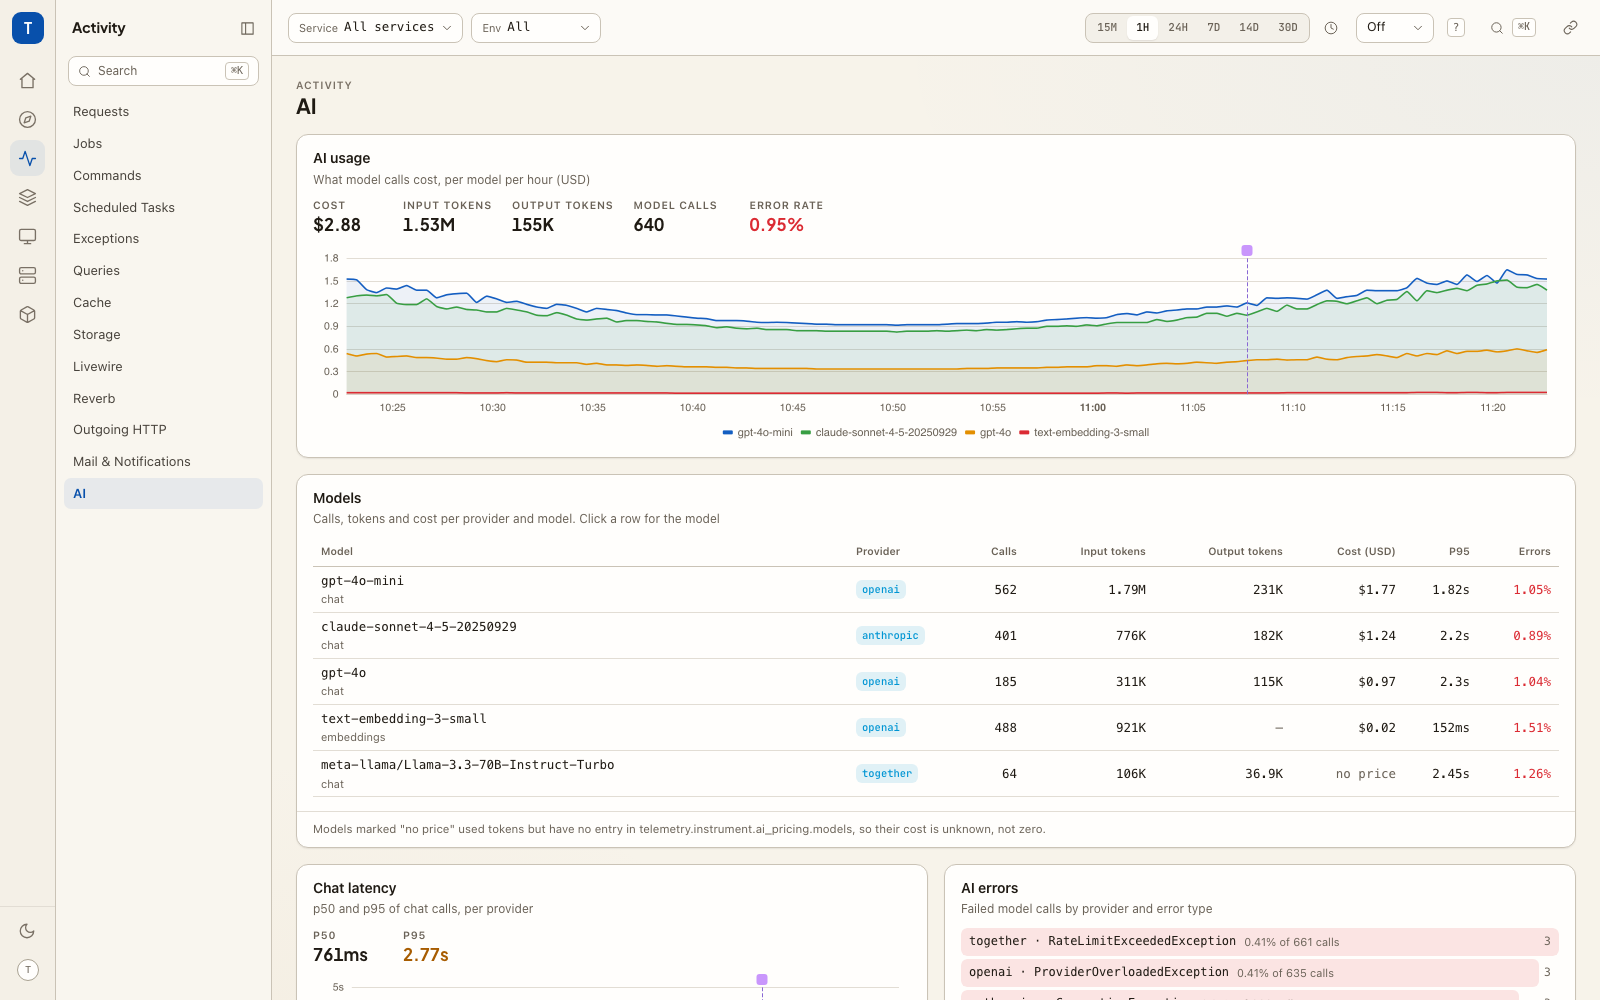
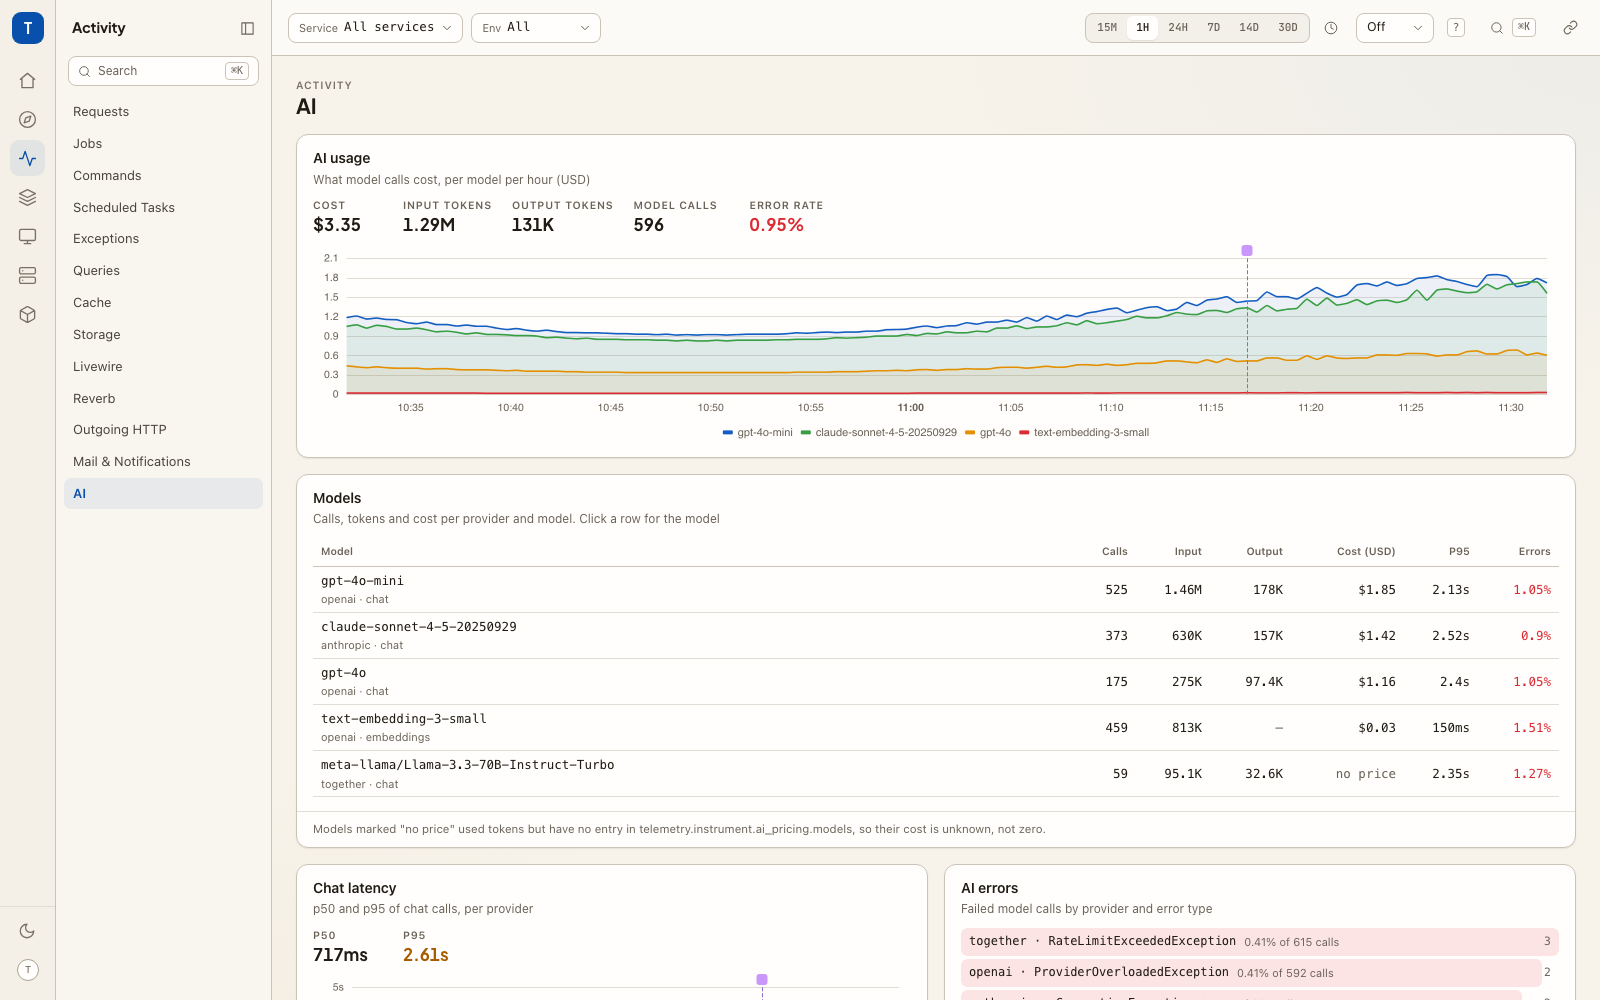
fix(ai): keep every AI table a table at 1280px
The models table, the call lists and the agent runs turned into cards at
a 1280px viewport while every other page stayed a table. Slim them the
way the rest of the UI does: provider and use under the model name,
cache and reasoning tokens under the token totals, when a run started
and the tools it called under the agent, shorter Input/Output labels.

A browser test now measures every AI table on the AI page (in each
sort), the model, agent, user, tenant and IP pages: tables at 1280px,
cards on a phone.

Claude-Session: https://claude.ai/code/session_01LtsaMBeethcCYvKx8PTBYL

diff --git a/tests/Feature/AiPageTest.php b/tests/Feature/AiPageTest.php
@@ -186,8 +186,8 @@ it('lists models with calls, tokens, cost, p95 and error rate, marking an unpric
         ->assertOk()
         // Priced (and costliest) first.
         ->assertJsonPath('rows.0.model.v', 'gpt-4o')
-        ->assertJsonPath('rows.0.model.sub', 'chat, embeddings')
-        ->assertJsonPath('rows.0.provider.v', 'openai')
+        // Provider and use under the model: no columns of their own.
+        ->assertJsonPath('rows.0.model.sub', 'openai · chat, embeddings')
         ->assertJsonPath('rows.0.calls.v', '100')
         ->assertJsonPath('rows.0.input.v', '50K')
         ->assertJsonPath('rows.0.output.v', '8K')
@@ -201,7 +201,7 @@ it('lists models with calls, tokens, cost, p95 and error rate, marking an unpric
         // A row opens the model's own page.
         ->assertJsonPath('rows.1._link', ['to' => 'entity', 'type' => 'ai-model', 'value' => 'claude-sonnet'])
         ->assertJsonPath('rows.1.model.dim', ['key' => 'gen_ai.request.model', 'value' => 'claude-sonnet'])
-        ->assertJsonPath('columns.5.label', 'Cost (USD)')
+        ->assertJsonPath('columns.4.label', 'Cost (USD)')
         ->assertJsonPath('note', 'Models marked "no price" used tokens but have no entry in telemetry.instrument.ai_pricing.models, so their cost is unknown, not zero.');
 });
 
@@ -339,7 +339,7 @@ it('lists agent runs from invoke_agent spans, sortable by cost, each opening its
         ->assertJsonPath('rows.0.agent.v', 'Researcher')
         ->assertJsonPath('rows.0.agent.link', ['to' => 'entity', 'type' => 'ai-agent', 'value' => 'Researcher'])
         ->assertJsonPath('rows.0.cost.v', '—')
-        ->assertJsonPath('rows.0.tools.v', 'none')
+        ->assertJsonPath('rows.0.agent.sub', gmdate('H:i:s', 1735689660).' · no tools')
         ->assertJsonPath('rows.0.status.v', 'length')
         ->assertJsonPath('rows.0.status.tone', 'warn')
         ->assertJsonPath('rows.0.duration.v', '9.1s')
@@ -350,11 +350,11 @@ it('lists agent runs from invoke_agent spans, sortable by cost, each opening its
         ->assertJsonPath('title', 'Most expensive agent runs')
         ->assertJsonPath('rows.0.agent.v', 'SupportAgent')
         ->assertJsonPath('rows.0.model.v', 'gpt-4o')
-        ->assertJsonPath('rows.0.agent.sub', gmdate('H:i:s', 1735689600))
+        // When it ran and the tools it called, under the agent.
+        ->assertJsonPath('rows.0.agent.sub', gmdate('H:i:s', 1735689600).' · lookup_order')
         ->assertJsonPath('rows.0.tokens.v', '1.2K / 300')
         ->assertJsonPath('rows.0.cost.v', '$0.0042')
         ->assertJsonPath('rows.0.status.v', 'stop')
-        ->assertJsonPath('rows.0.tools.v', 'lookup_order')
         ->assertJsonPath('rows.0.model.link', ['to' => 'entity', 'type' => 'ai-model', 'value' => 'gpt-4o'])
         ->assertJsonPath('rows.0._link.to', 'trace')
         ->assertJsonPath('rows.0._link.id', 'aaaa1111aaaa1111aaaa1111aaaa1111');
@@ -443,13 +443,13 @@ it('lists individual model calls with tokens, cache, cost and how each ended', f
         // Short enough for the badge; the full type is in the trace.
         ->assertJsonPath('rows.0.status.v', 'RateLimitExceeded')
         ->assertJsonPath('rows.0.status.tone', 'danger')
-        ->assertJsonPath('rows.0.cache.v', '—')
+        ->assertJsonMissingPath('rows.0.tokens.sub')
         ->assertJsonPath('rows.0.duration.tone', 'warn')
         // Chat is not named; the column is gone.
         ->assertJsonMissingPath('rows.1.operation')
         ->assertJsonPath('rows.1.tokens.v', '2.4K / 310')
-        ->assertJsonPath('rows.1.tokens.sub', '128 reasoning')
-        ->assertJsonPath('rows.1.cache.v', '1.2K / 0')
+        // Cache and reasoning tokens under the totals they are part of.
+        ->assertJsonPath('rows.1.tokens.sub', '1.2K cached · 128 reasoning')
         ->assertJsonPath('rows.1.cost.v', '$0.0004')
         ->assertJsonPath('rows.1.status.v', 'stop')
         ->assertJsonPath('rows.1._link', ['to' => 'trace', 'id' => 'dddd1111dddd1111dddd1111dddd1111', 'at' => 1735689600000]);
@@ -555,7 +555,7 @@ it('summarises an agent from a sample of its runs, and lists them newest first',
         ->assertJsonPath('title', 'Runs')
         ->assertJsonPath('columns.0.label', 'Started')
         ->assertJsonPath('rows.0.status.v', 'Connection')
-        ->assertJsonPath('rows.0.tools.v', 'search_docs')
+        ->assertJsonPath('rows.0.agent.sub', 'search_docs')
         ->assertJsonMissingPath('rows.0.when');
 
     $this->getJson(panelUrl(AiAgentTools::id(), ['agent' => 'SupportAgent']))

diff --git a/tests/Browser/AiTablesTest.php b/tests/Browser/AiTablesTest.php
@@ -1,0 +1,84 @@
+<?php
+
+declare(strict_types=1);
+
+use Cbox\TelemetryUi\Facades\TelemetryUi;
+
+/**
+ * Every AI table stays a table on a laptop and becomes cards on a phone.
+ *
+ * DataTable turns a table into cards when its columns cannot fit, and the AI
+ * tables carry the widest values in the package: a forty-character model
+ * name, error badges, token pairs, sub-cent costs. A column too many put
+ * the models table, the call lists and the agent runs into cards at 1280px
+ * while every other page stayed a table — so this pins it, against the
+ * fixture data, which includes the longest model name and error types.
+ *
+ * @return array<string, bool> panel title => rendered as cards
+ */
+function aiTableModes(string $url, int $width): array
+{
+    $page = visit($url)
+        ->resize($width, 2400)
+        ->assertDontSee('Loading dashboard')
+        ->waitForEvent('networkidle')
+        ->assertScript('document.querySelectorAll(".t-skeleton").length === 0');
+
+    /** @var array<string, bool> $modes */
+    $modes = $page->script(<<<'JS'
+        Object.fromEntries(Array.from(document.querySelectorAll('.t-table-host')).map((host) => [
+            host.closest('.t-panel')?.querySelector('.t-panel-title')?.textContent ?? '?',
+            !!host.querySelector('.is-cards'),
+        ]))
+    JS);
+
+    return $modes;
+}
+
+/** @return array<string, string> */
+function aiTablePages(): array
+{
+    return [
+        'ai' => '/telemetry-ui/p/ai',
+        'ai by tenant' => '/telemetry-ui/p/ai?ai_by=tenant.id',
+        // Other sorts bring other rows (the costliest, the slowest) to the top.
+        'ai by cost' => '/telemetry-ui/p/ai?ai_sort=cost&ai_calls_sort=cost',
+        'ai by duration' => '/telemetry-ui/p/ai?ai_sort=duration&ai_calls_sort=duration',
+        'model' => '/telemetry-ui/entity/ai-model?value=meta-llama%2FLlama-3.3-70B-Instruct-Turbo&tab=metrics',
+        'agent' => '/telemetry-ui/entity/ai-agent?value=SupportAgent&tab=metrics',
+        'user' => '/telemetry-ui/entity/user?value=u_4812&tab=metrics',
+        'tenant' => '/telemetry-ui/entity/tenant?value=acme&tab=metrics',
+        'ip' => '/telemetry-ui/entity/ip?value=203.0.113.9&tab=metrics',
+    ];
+}
+
+beforeEach(function (): void {
+    TelemetryUi::dimension('tenant.id', label: 'Tenant', group: 'Billing', entity: 'tenant');
+});
+
+it('keeps every AI table a table at a 1280px viewport', function (): void {
+    $cards = [];
+
+    foreach (aiTablePages() as $name => $url) {
+        $modes = aiTableModes($url, 1280);
+
+        // Every table on the page was measured, not just the first to load.
+        expect(count($modes))->toBeGreaterThanOrEqual(str_starts_with($name, 'ai') ? 5 : 1, "tables missing on {$name}: ".json_encode($modes));
+
+        foreach ($modes as $title => $isCards) {
+            if ($isCards) {
+                $cards[] = "{$name}: {$title}";
+            }
+        }
+    }
+
+    expect($cards)->toBe([], 'AI tables rendered as cards at 1280px: '.implode(', ', $cards));
+});
+
+it('turns AI tables into cards on a phone', function (): void {
+    foreach (['ai' => '/telemetry-ui/p/ai', 'user' => '/telemetry-ui/entity/user?value=u_4812&tab=metrics'] as $name => $url) {
+        $modes = aiTableModes($url, 390);
+
+        expect(array_filter($modes))->not->toBeEmpty("no AI table on {$name} turned into cards at 390px");
+    }
+});

diff --git a/src/Panels/Builtin/AiAgentRuns.php b/src/Panels/Builtin/AiAgentRuns.php
@@ -97,13 +97,18 @@ class AiAgentRuns extends Panel
         $table = array_map(static function (array $row) use ($currency, $tools, $agent): array {
             $trace = Ui::trace($row['traceId'], $row['startedAt']);
             $used = $tools[$row['traceId']] ?? [];
+            $toolsLine = match (true) {
+                $tools === null => '',
+                $used === [] => 'no tools',
+                default => implode(', ', array_values(array_unique($used))),
+            };
 
             return [
+                // When it ran and the tools it called ride under the agent:
+                // two columns fewer keep the run list a table on a laptop.
                 'agent' => $agent === ''
-                    // When it ran rides under the agent: one column fewer keeps
-                    // the run list a table rather than cards on a laptop.
-                    ? Ui::cell($row['agent'], ['mono' => true, 'link' => Ui::entity('ai-agent', $row['agent']), 'sub' => $row['startedAt']->format('H:i:s')])
-                    : Ui::cell($row['startedAt']->format('H:i:s'), ['raw' => $row['startedAt']->getTimestamp(), 'mono' => true, 'link' => $trace]),
+                    ? Ui::cell($row['agent'], ['mono' => true, 'link' => Ui::entity('ai-agent', $row['agent']), 'sub' => implode(' · ', array_filter([$row['startedAt']->format('H:i:s'), $toolsLine]))])
+                    : Ui::cell($row['startedAt']->format('H:i:s'), ['raw' => $row['startedAt']->getTimestamp(), 'mono' => true, 'link' => $trace, ...($toolsLine !== '' ? ['sub' => $toolsLine] : [])]),
                 'model' => $row['model'] !== ''
                     ? Ui::cell($row['model'], ['mono' => true, 'link' => Ui::entity('ai-model', $row['model'])])
                     : Ui::cell('—', ['tone' => 'dim']),
@@ -111,11 +116,6 @@ class AiAgentRuns extends Panel
                 'cost' => $row['cost'] !== null
                     ? Ui::cell(Format::money($row['cost'], $currency), ['raw' => $row['cost']])
                     : Ui::cell('—', ['tone' => 'dim']),
-                'tools' => match (true) {
-                    $tools === null => Ui::cell('—', ['tone' => 'dim']),
-                    $used === [] => Ui::cell('none', ['raw' => 0, 'tone' => 'dim']),
-                    default => Ui::cell(implode(', ', array_values(array_unique($used))), ['raw' => count($used), 'mono' => true]),
-                },
                 'status' => match (true) {
                     $row['error'] !== '' => Ui::cell(self::shortErrorType($row['error']), ['badge' => self::shortErrorType($row['error']), 'tone' => 'danger']),
                     $row['finish'] !== '' => Ui::cell($row['finish'], ['badge' => $row['finish'], 'tone' => self::finishedNormally($row['finish']) ? null : 'warn']),
@@ -131,7 +131,6 @@ class AiAgentRuns extends Panel
             Ui::col('model', 'Model'),
             Ui::num('tokens', 'Tokens in / out'),
             Ui::num('cost', 'Cost'),
-            Ui::col('tools', 'Tools'),
             Ui::col('status', 'Finish'),
             Ui::num('duration', 'Duration'),
         ]));

diff --git a/src/Panels/Builtin/AiCalls.php b/src/Panels/Builtin/AiCalls.php
@@ -111,7 +111,6 @@ class AiCalls extends Panel
         $table = array_map(static function (array $row) use ($currency, $model): array {
             $trace = Ui::trace($row['traceId'], $row['startedAt']);
             $at = $row['startNano'] > 0 ? intdiv($row['startNano'], 1_000_000_000) : $row['startedAt']->getTimestamp();
-            $cached = $row['cacheRead'] + $row['cacheWrite'];
             // Chat is the rule, so only another operation is named — under the
             // call rather than in a column of its own, which kept the table
             // just short of turning into cards at laptop width.
@@ -133,11 +132,15 @@ class AiCalls extends Panel
                     ]),
                 'tokens' => Ui::cell(Format::count($row['input']).' / '.Format::count($row['output']), [
                     'raw' => $row['input'] + $row['output'],
-                    ...($row['reasoning'] > 0 ? ['sub' => Format::count($row['reasoning']).' reasoning'] : []),
+                    // Cache and reasoning tokens ride under the totals they are
+                    // part of, rather than in columns that push the table into
+                    // cards on a laptop.
+                    ...(($detail = implode(' · ', array_filter([
+                        $row['cacheRead'] > 0 ? Format::count($row['cacheRead']).' cached' : null,
+                        $row['cacheWrite'] > 0 ? Format::count($row['cacheWrite']).' cache write' : null,
+                        $row['reasoning'] > 0 ? Format::count($row['reasoning']).' reasoning' : null,
+                    ]))) !== '' ? ['sub' => $detail] : []),
                 ]),
-                'cache' => $cached > 0
-                    ? Ui::cell(Format::count($row['cacheRead']).' / '.Format::count($row['cacheWrite']), ['raw' => $cached])
-                    : Ui::cell('—', ['tone' => 'dim']),
                 'cost' => $row['cost'] !== null
                     ? Ui::cell(Format::money($row['cost'], $currency), ['raw' => $row['cost']])
                     : Ui::cell('—', ['tone' => 'dim']),
@@ -159,7 +162,6 @@ class AiCalls extends Panel
             Ui::col('when', 'When'),
             Ui::col('call', $model === '' ? 'Model' : 'Origin'),
             Ui::num('tokens', 'Tokens in / out'),
-            Ui::num('cache', 'Cache read / write'),
             Ui::num('cost', 'Cost'),
             Ui::col('status', 'Finish'),
             Ui::num('duration', 'Duration'),

diff --git a/src/Panels/Builtin/AiModels.php b/src/Panels/Builtin/AiModels.php
@@ -129,11 +129,10 @@ final class AiModels extends Panel
                     'mono' => true,
                     'link' => $link,
                     ...($row['model'] !== '' ? ['dim' => ['key' => 'gen_ai.request.model', 'value' => $row['model']]] : []),
-                    ...($row['operations'] !== [] ? ['sub' => implode(', ', array_keys($row['operations']))] : []),
+                    // Provider and use under the model, not in columns of their
+                    // own: the table has to stay a table on a laptop.
+                    ...(($sub = implode(' · ', array_filter([$row['provider'], implode(', ', array_keys($row['operations']))]))) !== '' ? ['sub' => $sub] : []),
                 ]),
-                'provider' => $row['provider'] !== ''
-                    ? Ui::cell($row['provider'], ['badge' => $row['provider'], 'tone' => 'info'])
-                    : Ui::cell('—'),
                 'calls' => Ui::cell(Format::count($row['calls']), ['raw' => $row['calls']]),
                 'input' => Ui::cell(Format::count($row['input']), ['raw' => $row['input']]),
                 // Embeddings produce no output tokens: a dash, not a zero that reads as a measurement.
@@ -162,10 +161,9 @@ final class AiModels extends Panel
 
         return Ui::table('Models', [
             Ui::col('model', 'Model'),
-            Ui::col('provider', 'Provider'),
             Ui::num('calls', 'Calls'),
-            Ui::num('input', 'Input tokens'),
-            Ui::num('output', 'Output tokens'),
+            Ui::num('input', 'Input'),
+            Ui::num('output', 'Output'),
             Ui::num('cost', 'Cost ('.$currency.')'),
             Ui::num('p95', 'P95'),
             Ui::num('errors', 'Errors'),

diff --git a/src/Panels/Builtin/AiUsageByDimension.php b/src/Panels/Builtin/AiUsageByDimension.php
@@ -122,8 +122,8 @@ final class AiUsageByDimension extends Panel
         return Ui::table('AI usage by '.lcfirst($label), [
             Ui::col('value', $label),
             Ui::num('calls', 'Calls'),
-            Ui::num('input', 'Input tokens'),
-            Ui::num('output', 'Output tokens'),
+            Ui::num('input', 'Input'),
+            Ui::num('output', 'Output'),
             Ui::num('cost', 'Cost ('.$currency.')'),
             Ui::num('errors', 'Errors'),
             Ui::num('last', 'Last call'),

diff --git a/docs/cookbook/ai.md b/docs/cookbook/ai.md
@@ -44,12 +44,12 @@ the page, and the cost columns show the pricing hint.
 | Panel | Reads | Shows |
 | --- | --- | --- |
 | AI usage | `gen_ai_client_cost_total`, `gen_ai_client_token_usage_sum`, `gen_ai_client_operation_duration_seconds_count` | Cost per model per hour when prices are set, tokens per model per minute otherwise. Tiles: cost, input and output tokens, model calls, error rate. |
-| Models | the same, plus `gen_ai_client_operation_duration_seconds_bucket` | One row per provider and model: calls (with chat / embeddings), input and output tokens, cost or *no price*, p95 latency, error rate. A row opens the model's page. |
+| Models | the same, plus `gen_ai_client_operation_duration_seconds_bucket` | One row per provider and model (provider and chat / embeddings under the name): calls, input and output tokens, cost or *no price*, p95 latency, error rate. A row opens the model's page. |
 | Chat latency | `gen_ai_client_operation_duration_seconds_bucket{gen_ai_operation_name="chat"}` | p50 and p95 per provider over time. Embeddings are left out: they would flatten the chat lines. |
 | AI errors | `gen_ai_client_operation_duration_seconds_count{error_type!=""}` | Failed calls by provider and `error_type`, each with its share of that provider's calls. |
 | AI usage by … | Loki usage records, else Tempo `chat` / `embeddings` spans | Calls, input and output tokens, cost (or *no price*, with a count of unpriced calls), error rate and last call per user, declared dimension (team, tenant, …), client IP or any attribute. A value opens its entity page when it has one, its traces otherwise. |
-| Recent model calls | Tempo: `chat` and `embeddings` spans | One row per call: model and where it came from, tokens (with reasoning), cache read / write, cost, finish reason or error, duration. Sortable by time, duration or cost. A row opens the trace. |
-| Slowest agent runs | Tempo: `invoke_agent` spans | Agent, model, tokens, cost (`gen_ai.usage.cost`), the tools the run called, finish reason or error, and duration. Sortable by time, duration or cost. A row opens the waterfall with its `chat` and `execute_tool` children. |
+| Recent model calls | Tempo: `chat` and `embeddings` spans | One row per call: model and where it came from, tokens in / out (cache and reasoning tokens under them), cost, finish reason or error, duration. Sortable by time, duration or cost. A row opens the trace. |
+| Slowest agent runs | Tempo: `invoke_agent` spans | Agent (with when it ran and the tools it called under the name), model, tokens, cost (`gen_ai.usage.cost`), finish reason or error, and duration. Sortable by time, duration or cost. A row opens the waterfall with its `chat` and `execute_tool` children. |
 | Agent tools | Tempo: `execute_tool` spans | Runs, average and max duration per tool. A row opens the slowest run. |
 
 The trace panels are built from a sample of recent traces (a Tempo
